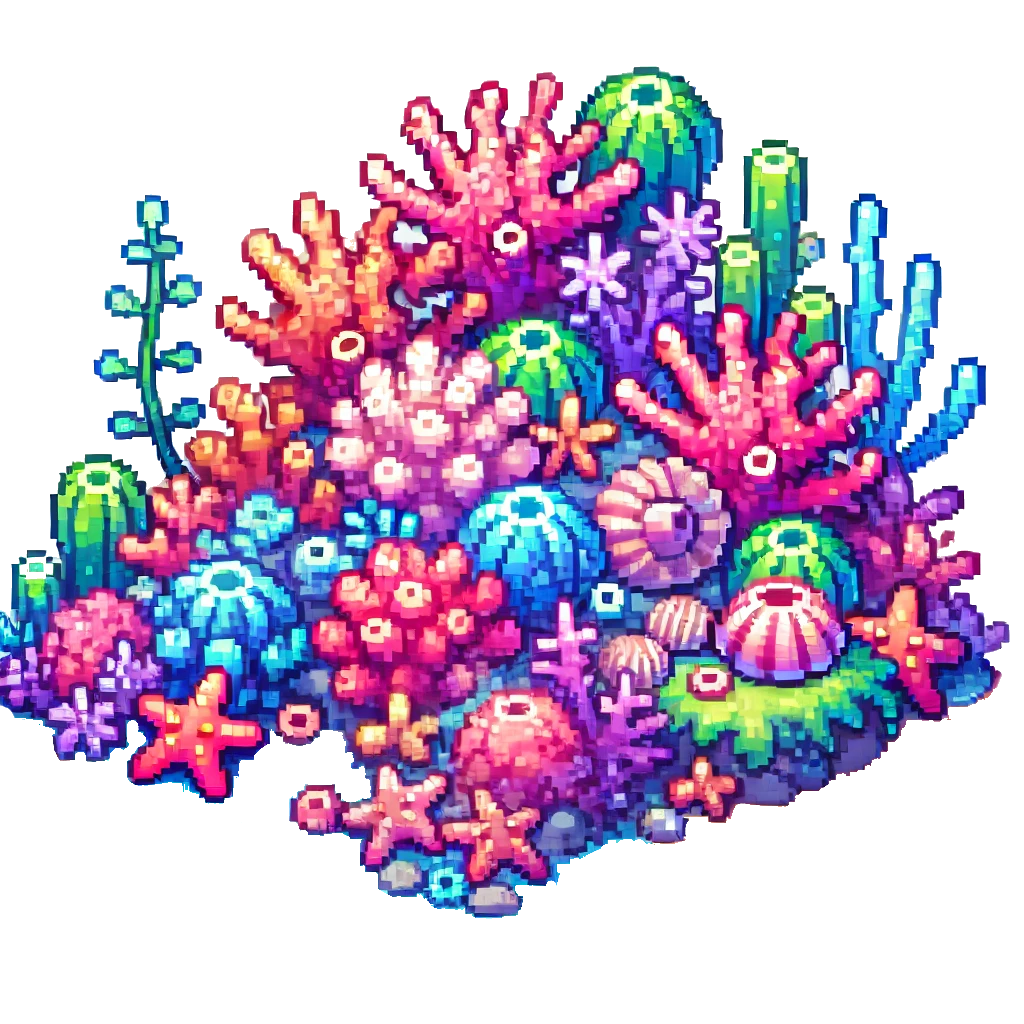
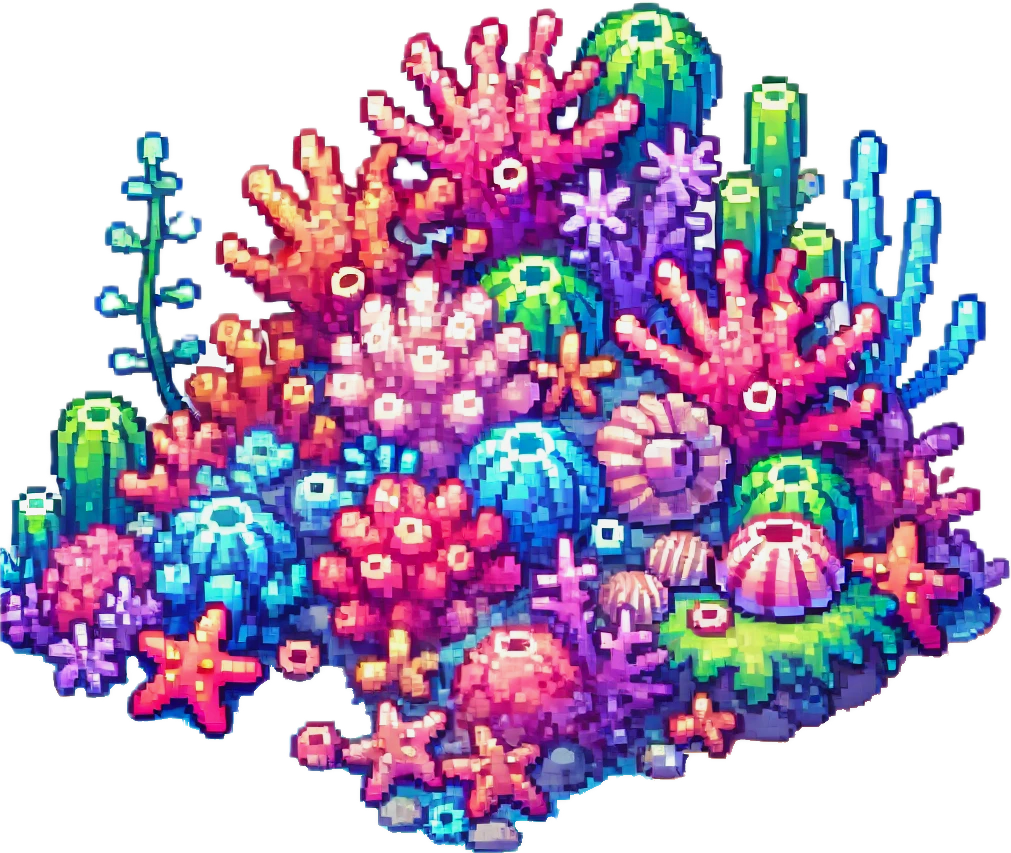
Added 3x3 algae graphics and improved its mechanics so that it does not overlap, for an aesthetically pleasing GUI appearance

diff --git a/src/main/resources/style.css b/src/main/resources/style.css
@@ -1,5 +1,5 @@
 #pane{
-    -fx-background-image: url("/images/background.jpeg");
+    -fx-background-image: url("/images/background.png");
     -fx-background-repeat: stretch;
     -fx-background-size: 100% 100%;
     -fx-background-position: center center;

diff --git a/src/main/java/ocean/WorldSetup.java b/src/main/java/ocean/WorldSetup.java
@@ -17,7 +17,7 @@ import static com.sun.javafx.scene.control.skin.Utils.getResource;
 public class WorldSetup {
     private static Random random = new Random();
 
-    /* -------------------------------CORAL REEFS - SAFETY PLACE------------------------------- */
+    /* -------------------------------RAFY KORALOWE------------------------------- */
 
     //inicjuje pola mapy jako NORMAL i losuje miejsca raf
     static void initTiles(World world, int noCoral) {
@@ -25,21 +25,53 @@ public class WorldSetup {
         int width = world.getWidth();
         int height = world.getHeight();
 
-        for (int x = 0; x < width; x++)
-            for (int y = 0; y < height; y++)
-               grid[x][y] = new Tile(x, y, MapType.NORMAL); //ustawia pole na NORMAL
+        for (int x = 0; x < width; x++) {
+            for (int y = 0; y < height; y++) {
+                grid[x][y] = new Tile(x, y, MapType.NORMAL); //ustawia pole na NORMAL
+            }
+        }
 
-        // simple rozmieszczenie raf (otoczenie 3x3 na razie - jeśli dobrze ustawiłąm lol) //dobrze
-        for (int i = 0; i < noCoral; i++) {
+        //zastanawiam się, czy powinien być warunek sprawdzający, czy mapa nie jest mniejsza niż wymiary rafy
+
+        int coralreef_counter = 0, countOfReefs = noCoral;
+
+        while (coralreef_counter <= countOfReefs) {
+
             int cx = random.nextInt(width); //losuje centralne pole x rafy
             int cy = random.nextInt(height); //losuje centralne pole y rafy
-            for (int dx = -1; dx <= 1; dx++)
+
+            //sprawdza czy w zasięgu mapy
+            if (!world.inBounds(cx - 1, cy - 1) || !world.inBounds(cx + 1, cy + 1)) continue;
+
+            // simple rozmieszczenie raf (otoczenie 3x3 na razie - jeśli dobrze ustawiłąm lol) //dobrze
+            boolean IsEmpty = true; // sprawdza, czy jest wolna przestrzeń, na postawienie rafy
+            for (int dx = -1; dx <= 1 && IsEmpty; dx++)
                 for (int dy = -1; dy <= 1; dy++)
-                    if (world.inBounds(cx + dx, cy + dy)) //sprawdza czy w zasięgu mapy
-                        grid[cx + dx][cy + dy].setMapType(MapType.CORAL); //ustawia pole na CORAL
+                    if (grid[cx + dx][cy + dy].getMapType() == MapType.CORAL) { // sprawdza, czy pole to CORAL
+                        IsEmpty = false;
+                    }
+
+            if (!IsEmpty) continue; // pomija, jeśli pole jest zajęte
+
+            // dodanie rafy koralowej na 9 polach
+            for (int dx = -1; dx <= 1; dx++) {
+                for (int dy = -1; dy <= 1; dy++) {
+                    grid[cx + dx][cy + dy].setMapType(MapType.CORAL);
+                }
+            }
+
+            world.addCoralReefCenter(new Coord(cx, cy)); //pobiera współrzędne środka mapy
+            coralreef_counter++; //inkrementuje licznik raf
         }
+
+        // informacja zwrotna odnośnie ilości raf
+        // przypadek, w którym nie uda się wstawić tyle raf ile zostało zadane
+        /*if (coralreef_counter < countOfReefs) {
+            //TODO: ERROR
+        }*/
     }
 
+    /* -------------------------------ZWIERZĘTA------------------------------- */
 
     //dodaje okreslona liczbe dowolnych (rarity) zwierząt do listy w losowych pozycjach
     static void spawnAnimals(World world, int count) {
@@ -82,6 +114,7 @@ public class WorldSetup {
         }
     }
 
+    /* -------------------------------JEDZENIE------------------------------- */
 
     //losowo rozmieszcza jedzenie
     static void spawnFood(World world, int noFood) {
@@ -104,6 +137,8 @@ public class WorldSetup {
             tile.setFoodType(foodType);
         }
     }
+
+    /* -------------------------------KOORDYNATY------------------------------- */
 
     //generuje losowe współrzedne Coord na swiecie - w granicach ofc bo random.nextInt(bound) zawsze zwraca liczbę w zakresie [0, bound)
     private static Coord randomCoord(World world) {

diff --git a/src/main/java/ocean/Main.java b/src/main/java/ocean/Main.java
@@ -19,6 +19,7 @@ import map.*;
 
 import java.io.File;
 import java.util.*;
+import java.util.List;
 
 
 public class Main extends Application {
@@ -31,6 +32,7 @@ public class Main extends Application {
     private GridPane grid; //deklaracja grid
 
     public static void main(String[] args) {
+        // parametry, zaciągane z pliku .csv
         Map<String, Integer> config = new HashMap<>(); //stwierdzilam ze hashmap bo tak to by musiały byc w konkretnej kolejności i wgl i jakby któregoś zabraklo to problem i wgl
 
         try{
@@ -87,6 +89,9 @@ public class Main extends Application {
             }
         }
 
+
+
+
         updateGrid(); //update rzeczy ustawionych
 
         VBox bottomPanel = new VBox(); //tworzy taki kontener?? strukturę??? (VBox układa rzeczy jeden pod drugim)
@@ -125,11 +130,8 @@ public class Main extends Application {
                 Tile tile = world.getTile(coord); //pobranie info o polu z world
                 Rectangle rect = tilesTab[x][y]; //pobranie kafelka z tabicy kafelków
 
-                if (tile.getMapType() == MapType.CORAL) { //pole to coral
-                    rect.setFill(Color.DARKCYAN);
-                } else {
-                    rect.setFill(Color.color(0, 0, 0, 0)); //reszta pól - woda
-                }
+                //rect.setFill(Color.color(0, 0, 0, 0)); //reszta pól - woda
+                rect.setFill(Color.TRANSPARENT); //reszta pól - woda
             }
         }
 
@@ -145,7 +147,22 @@ public class Main extends Application {
         grid.getChildren().removeAll(toRemove);
 
         /* -------------------------------OTOCZENIE - ŚRODOWISKO------------------------------- */
-        //TODO: RAFA KORALOWA
+        Image CoralReefImage = new Image(getClass().getResource("/images/CoralReef.png").toExternalForm());
+
+        for (Coord center : world.getCoralReefCenter()) {
+            ImageView CoralImage = new ImageView(CoralReefImage);
+
+            CoralImage.setPreserveRatio(true); // 3 x 3
+            CoralImage.setFitHeight(tileSize * 3); // 3 kratki wysokości
+            CoralImage.setFitWidth(tileSize * 3); // 3 kratki szerokości
+
+            GridPane.setColumnIndex(CoralImage, center.getX() - 1);
+            GridPane.setRowIndex(CoralImage, center.getY() - 1);
+            GridPane.setColumnSpan(CoralImage, 3);
+            GridPane.setRowSpan(CoralImage, 3);
+
+            grid.getChildren().add(CoralImage);
+        }
 
         /* -------------------------------GRAFIKI JEDZENIA------------------------------- */
 

diff --git a/src/main/java/ocean/World.java b/src/main/java/ocean/World.java
@@ -13,6 +13,8 @@ public class World {
     private final int width, height; //powirzchnia mapy
     private Tile[][] grid; //siatka - różne typy mapy i objekty
     private List<Animal> animals = new ArrayList<>(); //lista zwierząt na świecie
+    private final List<Coord> CoralReefCenter = new ArrayList<>(); // przechowuje współrzędne środka rafy koralowej
+
     private int eatenFoodCounter = 0; //do liczenia ile jedzenia zostało zjedzone od ostatnego uzupełnienia
     public int totalEatenFood = 0;
     public int deadAnimalCounter = 0;
@@ -99,4 +101,9 @@ public class World {
     }
 
     public void setEatenFoodCounter(int eatenFoodCounter) {this.eatenFoodCounter = eatenFoodCounter;}
+
+    private final List<Coord> coralReefCenter = new ArrayList<>();
+
+    public List<Coord> getCoralReefCenter() { return coralReefCenter; }
+    public void addCoralReefCenter(Coord c) { coralReefCenter.add(c); }
 }

diff --git a/src/main/java/map/FoodType.java b/src/main/java/map/FoodType.java
@@ -4,7 +4,7 @@ import javafx.scene.image.Image;
 
 public enum FoodType {
     NONE(null),
-    PLANKTON("/images/Plankton.png"), // grafika planktonu, by mógł być wyświetlany w GUI
+    PLANKTON("/images/Plankton2.png"), // grafika planktonu, by mógł być wyświetlany w GUI
     ALGAE("/images/Alga.png"); // grafika algi, by mogła być wyświetlana w GUI
 
     private final Image FoodImage; // grafika jedzenia - przechowywanie
